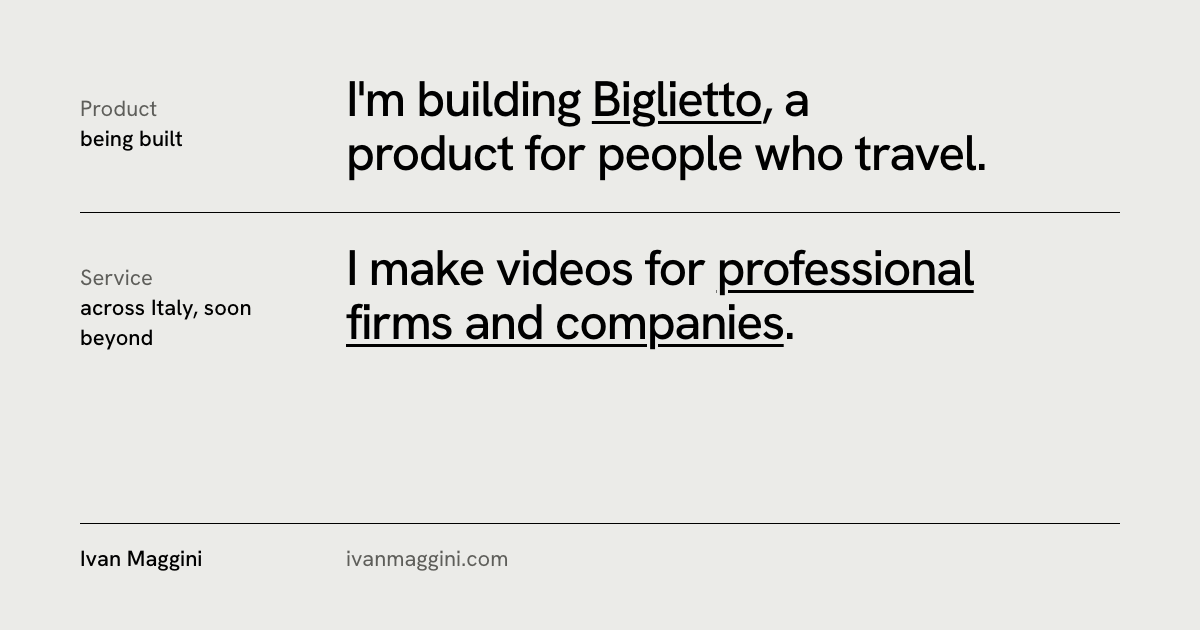
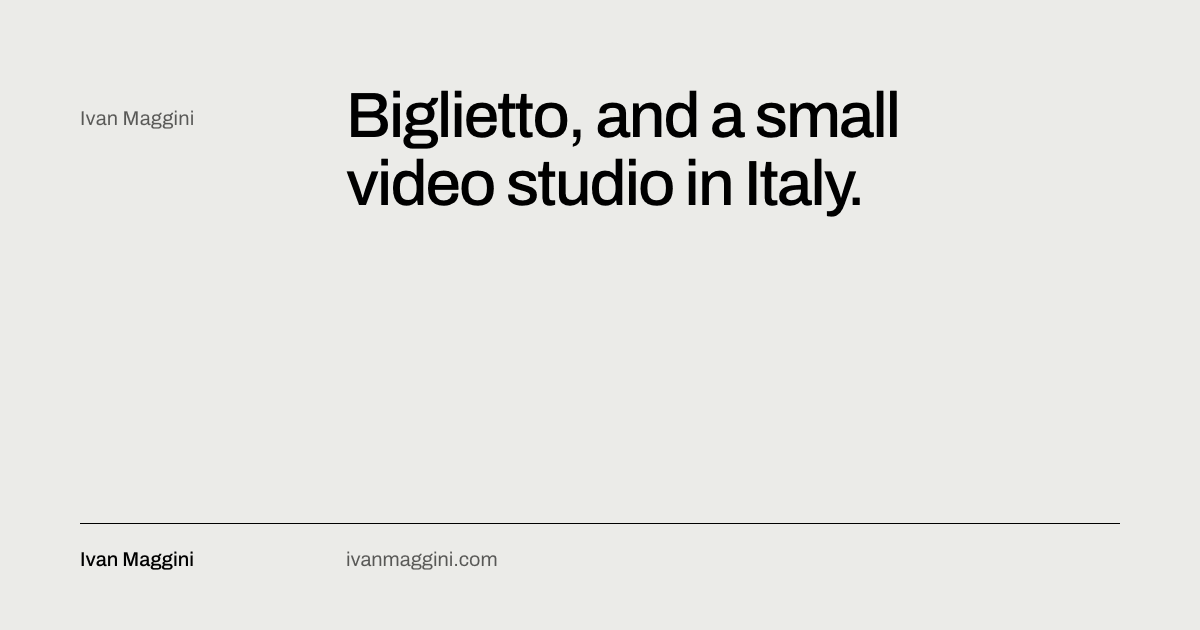
Anteprime della home rifatte, DESIGN.md aggiornato a benvenuto e porte
- og-home.png e og-home-en.png rigenerate in Archivo, 1200x630, stessa
  impostazione delle altre (etichetta sull'asse sinistro, titolo, filetto,
  dominio), ridotte a 16 colori (circa 13 KB l'una). Testi: "Mezza giornata
  di riprese. Al resto penso io." e "Biglietto, and a small video studio in
  Italy." Aggiornato og:image:alt nelle due home; gli indirizzi non cambiano.
- DESIGN.md descrive il benvenuto, lo spazio per la foto, le tre porte
  (nav.porte, a.porta) e il movimento della home: variabili --ingresso-*,
  arrivo su #studio, comportamento con prefers-reduced-motion.
- .impeccable/design.json riallineato a DESIGN.md.

diff --git a/index.html b/index.html
@@ -21,7 +21,7 @@
 <meta property="og:image" content="https://ivanmaggini.com/assets/og/og-home.png">
 <meta property="og:image:width" content="1200">
 <meta property="og:image:height" content="630">
-<meta property="og:image:alt" content="Ivan Maggini: sto costruendo Biglietto e giro i video di studi professionali e aziende">
+<meta property="og:image:alt" content="Ivan Maggini Studio: mezza giornata di riprese, al resto penso io">
 <meta name="twitter:card" content="summary_large_image">
 
 <link rel="preload" href="/assets/fonts/archivo.woff2" as="font" type="font/woff2" crossorigin>

diff --git a/en/index.html b/en/index.html
@@ -22,7 +22,7 @@
 <meta property="og:image" content="https://ivanmaggini.com/assets/og/og-home-en.png">
 <meta property="og:image:width" content="1200">
 <meta property="og:image:height" content="630">
-<meta property="og:image:alt" content="Ivan Maggini: building Biglietto, and making videos for professional firms and companies">
+<meta property="og:image:alt" content="Ivan Maggini: Biglietto, and a small video studio in Italy">
 <meta name="twitter:card" content="summary_large_image">
 
 <link rel="preload" href="/assets/fonts/archivo.woff2" as="font" type="font/woff2" crossorigin>

diff --git a/DESIGN.md b/DESIGN.md
@@ -105,9 +105,10 @@ grigio chiaro neutro scelto apposta, né il bianco dello schermo né una
 crema. Il nero è pieno. L'unico colore, l'ambra, compare solo sul campo
 nero e solo sull'azione.
 
-Il movimento è uno per pagina, all'apertura, e mostra la griglia invece di
-aggiungerci qualcosa: il titolo viene scoperto da sinistra, cioè dall'asse
-da cui parte. Sono rifiutati esplicitamente gli effetti da template ("vibe
+Il movimento sta all'apertura e non è mai legato allo scroll. Nelle pagine
+interne il titolo viene scoperto da sinistra, cioè dall'asse da cui parte.
+In home il benvenuto compare con calma, un paragrafo alla volta, e arrivando
+dalla porta dello Studio la sua sezione compare con una dissolvenza lenta. Sono rifiutati esplicitamente gli effetti da template ("vibe
 coded") e il nome gigante usato come logo in apertura, il gesto standard dei
 siti personali. La home si apre con un saluto ("Piacere, sono Ivan."), che è
 una frase alla dimensione display e non il nome in grande.
@@ -118,7 +119,7 @@ una frase alla dimensione display e non il nome in grande.
 - Carta grigia, nero pieno, ambra solo sul nero.
 - Un solo campo nero per pagina, dove si agisce.
 - Angoli vivi, nessuna ombra, nessuna card.
-- Un solo momento animato, all'apertura, solo in CSS.
+- Movimento solo in CSS: l'apertura di ogni pagina e, in home, il benvenuto e l'arrivo allo Studio. Niente con `prefers-reduced-motion`.
 
 ## Colors
 
@@ -147,7 +148,7 @@ Una palette di carta e inchiostro, con un solo segnale.
 
 ### Hierarchy
 Interlinee a multipli di 4. Sotto i 760 px ogni gradino scende di uno.
-- **Display** (500, 64/64, su mobile 40/44, −0,03em): l'h1 di ogni pagina e, in home, il titolo della sezione Studio (un `h2` con la classe `riga-t`, fermo).
+- **Display** (500, 64/64, su mobile 40/44, −0,03em): l'h1 di ogni pagina, i titoli delle porte (40/44 sotto i 1200 px) e, nella home italiana, il titolo della sezione Studio (un `h2` con la classe `riga-t`, fermo). Nella home inglese il titolo dello Studio è un `h2` normale.
 - **Headline** (500, 36/40, su mobile 28/32, −0,02em): i titoli di sezione (h2) e l'indirizzo email nel campo nero.
 - **Title** (500, 24/32, su mobile 20/28, −0,01em): h3, titoli delle colonne parallele, domande.
 - **Lede** (400, 24/32, su mobile 20/28): il paragrafo d'apertura sotto un titolo, largo al massimo sei colonne.
@@ -165,7 +166,7 @@ La griglia ha dodici colonne con un margine fluido (`clamp(20px, 5.5vw, 64px)`) 
 
 - **Asse A**, inizio della colonna 1: etichette di sezione, numeri dei paragrafi legali, marchio nella barra e nel piede.
 - **Asse B**, inizio della colonna 4: tutto il contenuto. Il testo corrente occupa le colonne 4–9; le colonne 10–12 restano vuote, ed è voluto. Niente è centrato.
-- Ogni sezione è un blocco con un filetto nero in testa e `s6` sopra e sotto (80–128 px). L'unica eccezione è in home: fra l'ingresso e la sezione Studio lo stacco scende a `s5` (64 px) per lato (`.sec.ingresso`), perché l'ingresso è un passaggio verso lo Studio e il suo pulsante deve stare il più in alto possibile. Dentro una sezione le distanze sono `s3` (24 px), più `s2` prima di elenchi, colonne e pulsanti (40 px in tutto). Si usano solo i passi da `s1` a `s6`.
+- Ogni sezione è un blocco con un filetto nero in testa e `s6` sopra e sotto (80–128 px). L'unica eccezione è in home: l'ingresso (`.sec.ingresso`) non ha spazio sotto, perché lo chiudono le porte, e la sezione Studio che lo segue ha `s5` (64 px) sopra invece di `s6`. Dentro una sezione le distanze sono `s3` (24 px), più `s2` prima di elenchi, colonne e pulsanti (40 px in tutto). Si usano solo i passi da `s1` a `s6`.
 - L'etichetta e la prima riga del contenuto stanno sulla stessa linea di base.
 - Sotto i 940 px la griglia collassa in una colonna sola, e l'etichetta va sopra il contenuto.
 - Barra in alto fissa, alta 56 px, sulla stessa griglia: marchio sull'asse A, navigazione dall'asse B, lingue in fondo a destra.
@@ -184,7 +185,7 @@ Angoli vivi ovunque (0 px): pulsanti, campo nero, anello di focus. Le forme sono
 
 ## Components
 
-Esatti e asciutti: niente si sposta. Al passaggio del mouse cambia lo spessore di una riga o si inverte un colore, e nient'altro. Tutte le transizioni usano una curva sola, `cubic-bezier(0.2, 0, 0, 1)`, e durano 0,15 s (0,3 s per le domande).
+Esatti e asciutti. Al passaggio del mouse cambia lo spessore di una riga o si inverte un colore; l'unica eccezione sono le porte della home, che si allargano. Tutte le transizioni usano una curva sola, `cubic-bezier(0.2, 0, 0, 1)`, e durano 0,15 s (0,3 s per le domande, 0,9 s per le porte).
 
 ### Buttons
 - **Shape:** angoli vivi (0 px), bordo da 1 px dello stesso colore del fondo.
@@ -208,8 +209,16 @@ Esatti e asciutti: niente si sposta. Al passaggio del mouse cambia lo spessore d
 ### Etichetta di sezione (rail)
 - 13/20 sull'asse A, allineata alla linea di base della prima riga del contenuto. La prima riga è in grafite e nomina la sezione; la seconda, in `<b>`, è in nero e peso 500 e dà un dettaglio. Quando l'etichetta è l'unico titolo della sezione è un `h2` con il solo `<b>`, e conserva l'aspetto dell'etichetta.
 
-### Ingresso e porte (home)
-- L'ingresso apre la home: etichetta "Benvenuti", `h1` di saluto in dimensione display (l'unico elemento animato), una riga d'apertura che nomina i due mestieri, poi due **porte**. Le porte sono colonne pure (`.cols` / `.col`), con il filetto in testa, la domanda in peso 500, un testo breve e un link in fondo: una porta allo Studio, una ai viaggi. Nell'ingresso non ci sono pulsanti, perché l'azione della pagina sta nella sezione Studio subito sotto.
+### Benvenuto e porte (home)
+- **Benvenuto** (`.sec.open.ingresso.benvenuto`): etichetta "Benvenuti" (EN "Welcome"), `h1` di saluto in dimensione display, poi un testo da leggere, un paragrafo per riga: righe di circa 56 caratteri (`max-width: 56ch`), interlinea 32 px (lede 36) da 760 px in su e 28 px (lede 32) sotto, lede più grande e domanda finale (`.domanda`) staccata e in peso 500.
+- **Spazio per la foto** (`.benvenuto-foto`): ritratto verticale 4:5, piatto, senza cornice; nelle colonne 10–12 su schermo largo e sopra il testo sul telefono. Finché `assets/ivan.jpg` non esiste c'è solo un commento HTML, e le colonne 10–12 restano vuote come nelle altre sezioni.
+- **Le porte** (`nav.porte` > `a.porta`): tre, ognuna un solo link grande. Dentro: etichetta piccola (`.porta-e`, 13/20 in grafite), titolo display (`.porta-t`), una frase (`.porta-s`) e in fondo il verbo sottolineato (`.porta-v`). In italiano l'ordine è Studio, Biglietto, Viaggi; in inglese Biglietto, Travel, Studio. Niente card e niente campo nero: fondo carta, un filetto in testa e uno fra l'una e l'altra. Da 760 px in su stanno affiancate, alte il 70% dello schermo (`70svh`), e al passaggio del mouse (solo dove c'è un mouse) o al focus la porta scelta si allarga da 1 a 1,5 in 0,9 s; sotto stanno impilate, alte almeno `40svh`. Il focus è un contorno interno (`outline-offset: -2px`). Nel benvenuto non ci sono pulsanti: l'azione sta nella sezione Studio.
+
+### Movimento della home
+- **Benvenuto:** il titolo (`.entra-titolo`) e poi i paragrafi (`.entra`, con l'ordine in `--n`) compaiono con una dissolvenza e un piccolo spostamento verso l'alto (12 px), curva unica. Il primo paragrafo parte quando il titolo è al 60%, gli altri a intervalli regolari: con i valori attuali l'ultimo finisce a circa 4,1 s. Le porte non hanno animazione d'entrata.
+- **Arrivo allo Studio:** quando `#studio` è il bersaglio dell'indirizzo (`#studio:target`), il contenuto della sezione compare con la stessa dissolvenza. Lo scorrimento lo fa il browser, a una velocità che il CSS non decide.
+- **Durate** in variabili in cima a `:root`: `--ingresso-pausa` (0,4 s), `--ingresso-titolo` (1,2 s), `--ingresso-paragrafo` (0,9 s), `--ingresso-scarto` (0,35 s), `--studio-entrata` (1 s).
+- **`prefers-reduced-motion`:** niente animazioni e niente allargamento delle porte; tutto compare subito. Da fermo ogni elemento è già al suo posto, quindi la pagina si legge anche se l'animazione non parte.
 
 ### Domande
 - Un filetto nero in testa e uno grigio fra le voci. La domanda è in dimensione title, con una croce a due tratti a destra. L'altezza scorre dove il browser lo supporta; altrove la risposta compare e basta.
@@ -224,14 +233,14 @@ Esatti e asciutti: niente si sposta. Al passaggio del mouse cambia lo spessore d
 - **Do** distinguere i titoli con la dimensione, usando solo i pesi 400 e 500 di Archivo.
 - **Do** usare solo i passi `s1`…`s6` e i colori definiti in `:root`.
 - **Do** tenere uno e un solo campo nero per pagina, sul contatto, con l'azione in ambra segnale.
-- **Do** limitare il movimento a un solo momento all'apertura (`.scopri` sull'h1 di ogni pagina), in CSS, con la curva unica, e fermarlo del tutto con `prefers-reduced-motion`.
+- **Do** limitare il movimento all'apertura (`.scopri` sull'h1 nelle pagine interne, il benvenuto in home) e all'arrivo sullo Studio, in CSS, con la curva unica, e fermarlo del tutto con `prefers-reduced-motion`.
 - **Do** dare ai contenuti paralleli la forma di colonne con un filetto in testa.
 
 ### Don't:
 - **Don't** usare l'ambra sulla carta, né come decorazione.
 - **Don't** usare card, ombre, angoli arrotondati, sfumature o fondi alternati.
 - **Don't** centrare niente.
-- **Don't** aggiungere animazioni legate allo scroll, dissolvenze, rimbalzi o elementi che si spostano al passaggio del mouse.
+- **Don't** aggiungere animazioni legate allo scroll, rimbalzi o elementi che si spostano al passaggio del mouse, fuori dal benvenuto e dalle porte della home.
 - **Don't** usare il maiuscolo o il grassetto per creare gerarchia.
 - **Don't** aprire la home con il nome in grande: si parte da cosa fa Ivan.
 - **Don't** caricare caratteri, script o immagini da server di terzi.
